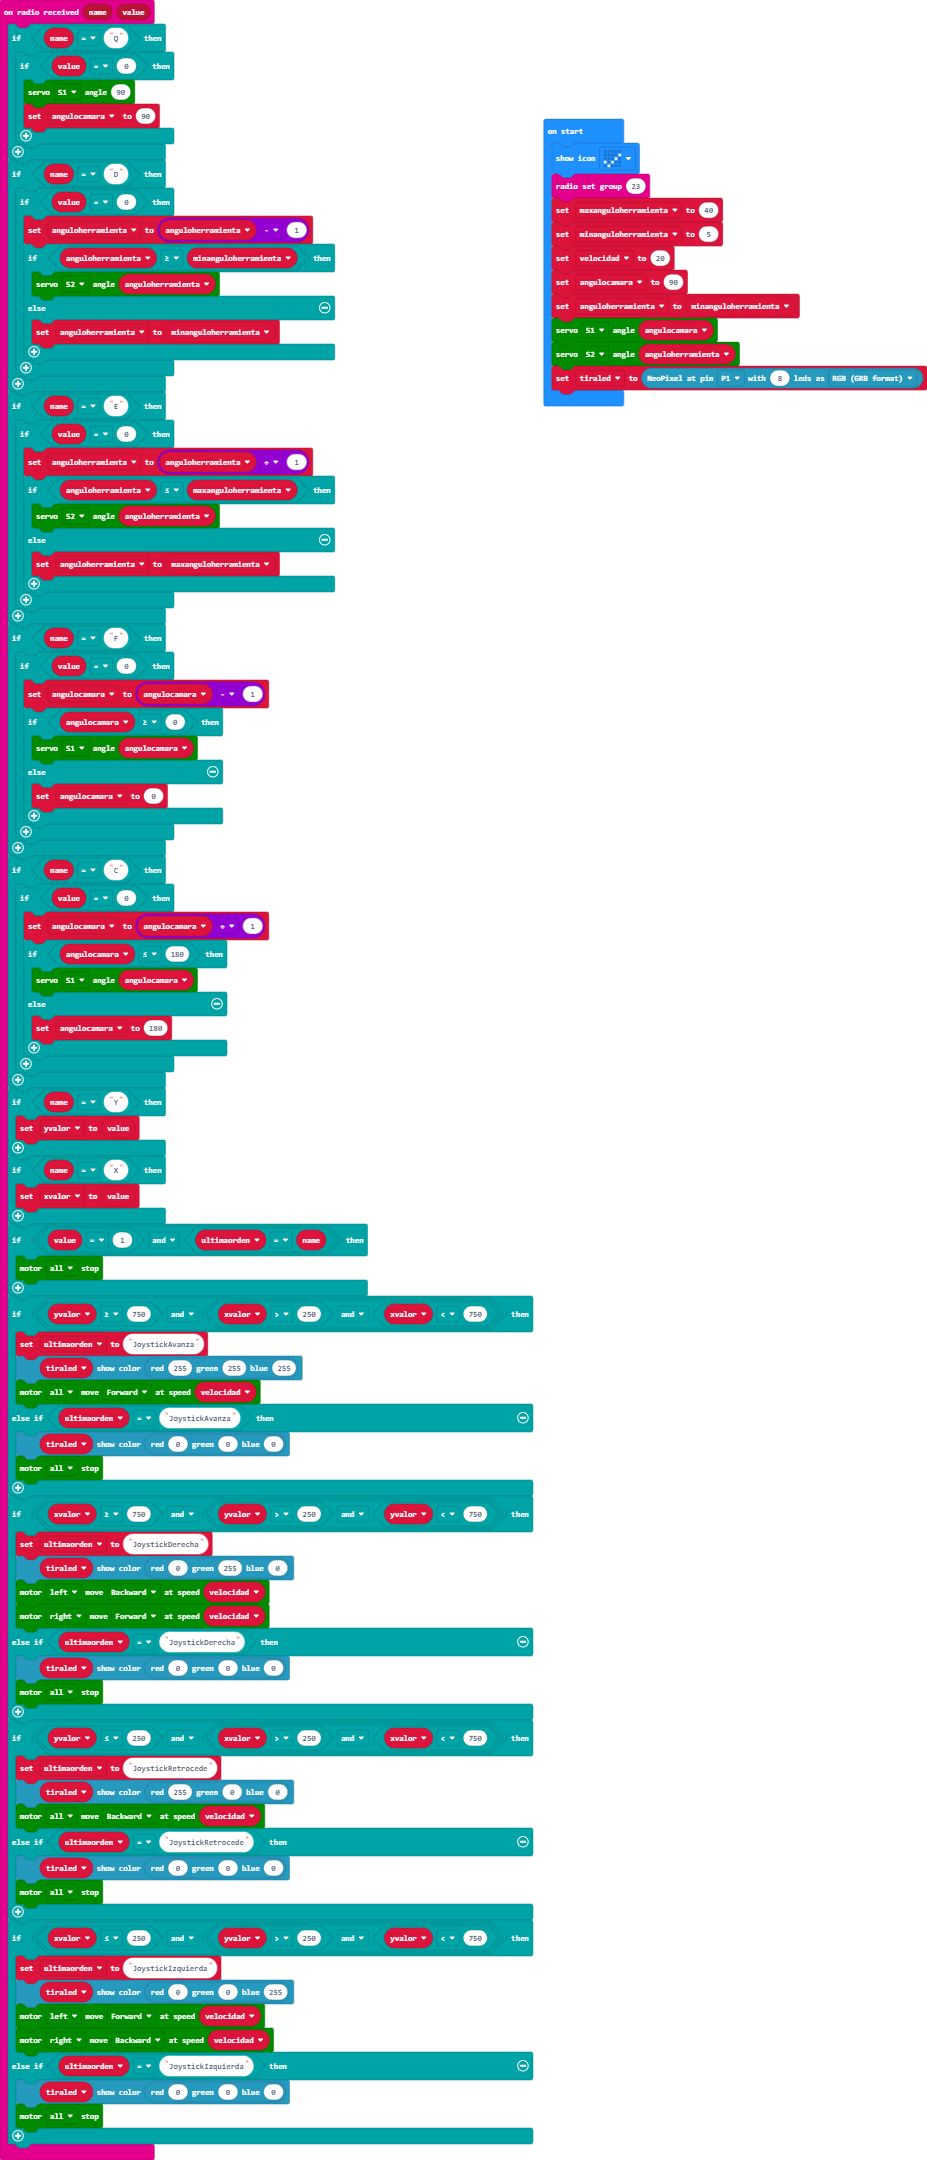
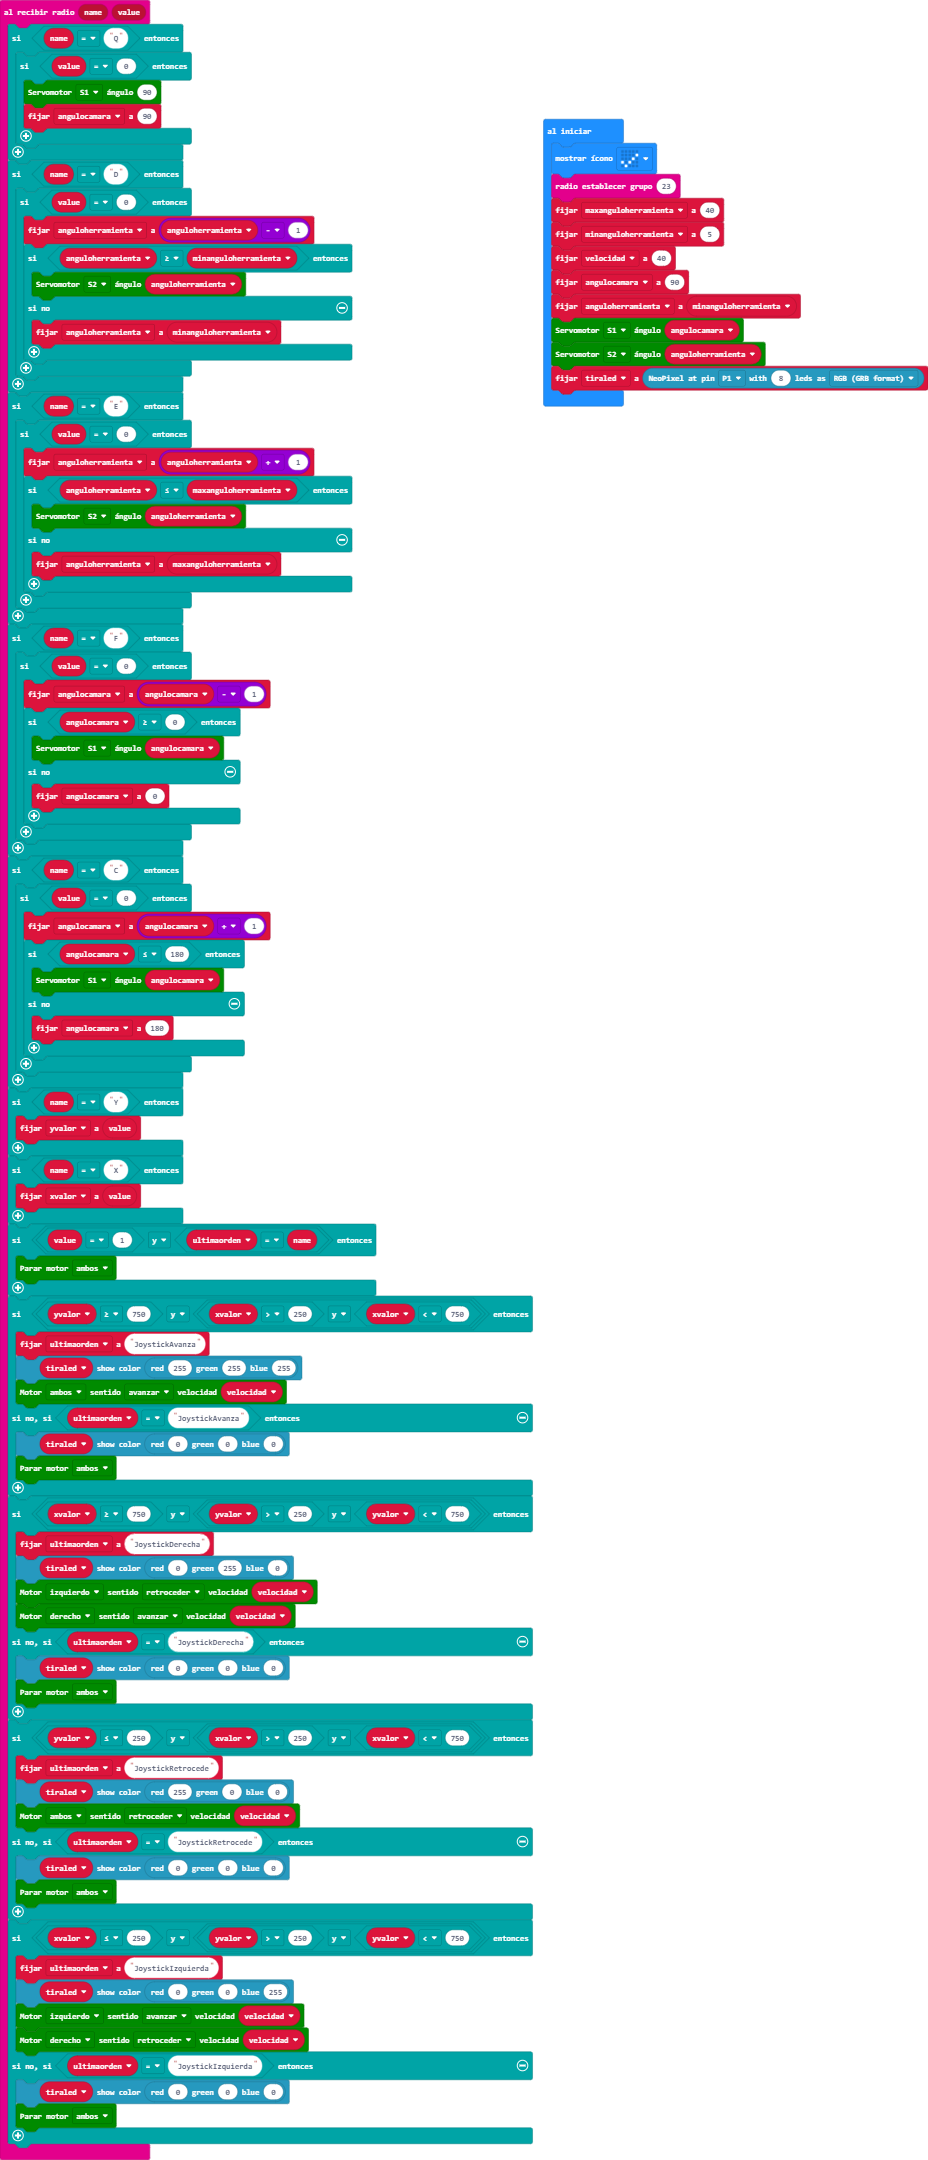
Actualizar main.blocks, main.ts

diff --git a/main.ts b/main.ts
@@ -102,7 +102,7 @@ basic.showIcon(IconNames.Yes)
 radio.setGroup(23)
 maxanguloherramienta = 40
 minanguloherramienta = 5
-velocidad = 20
+velocidad = 40
 angulocamara = 90
 anguloherramienta = minanguloherramienta
 maqueen.servoRun(maqueen.Servos.S1, angulocamara)
